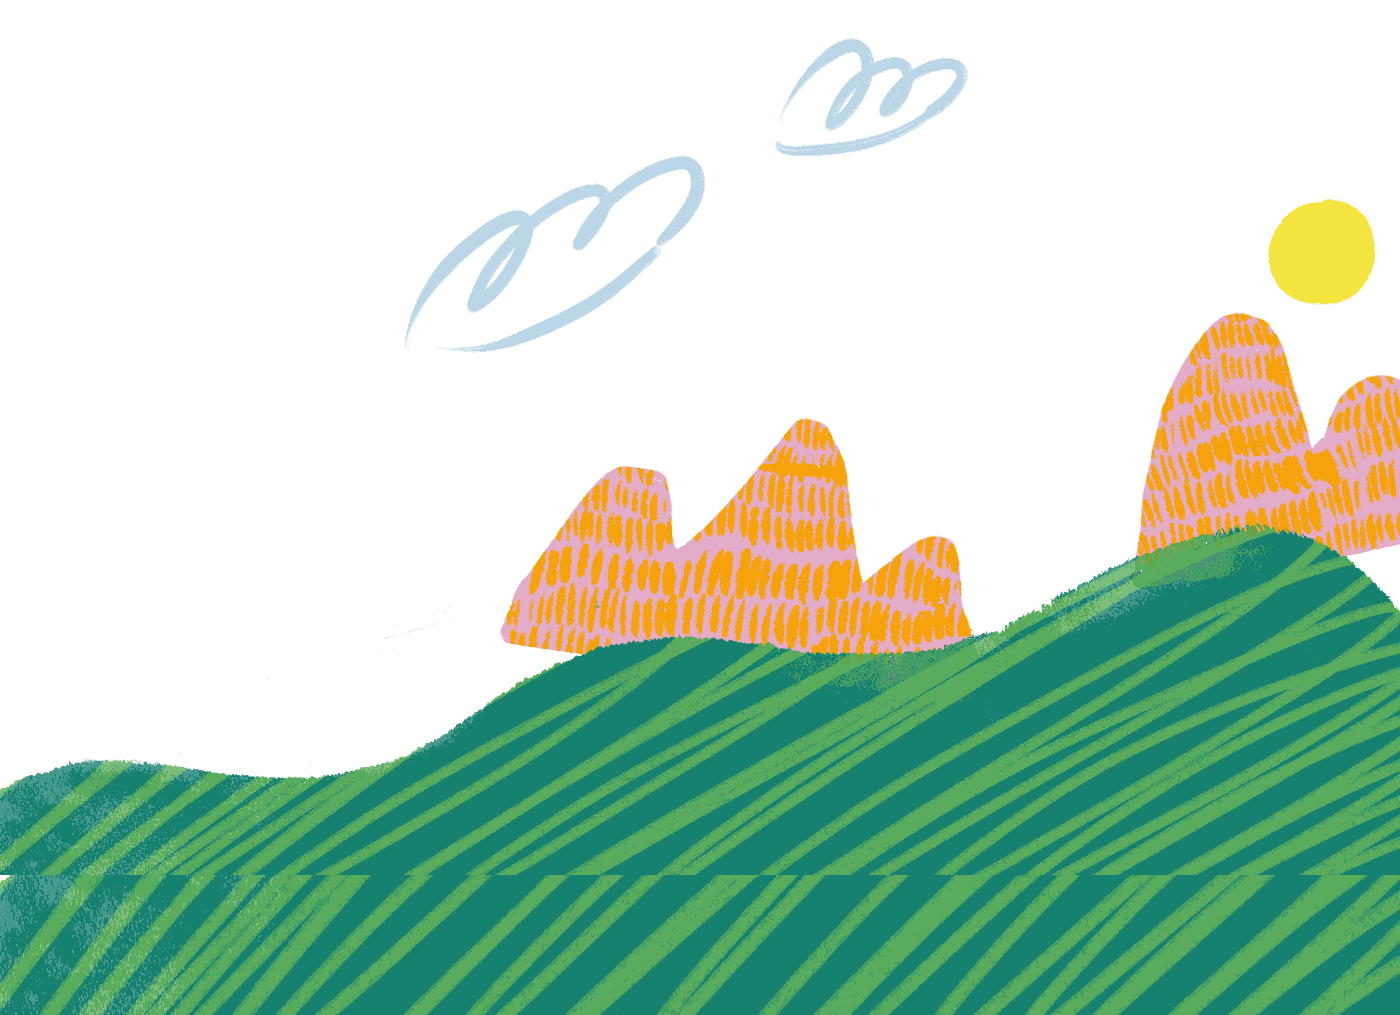
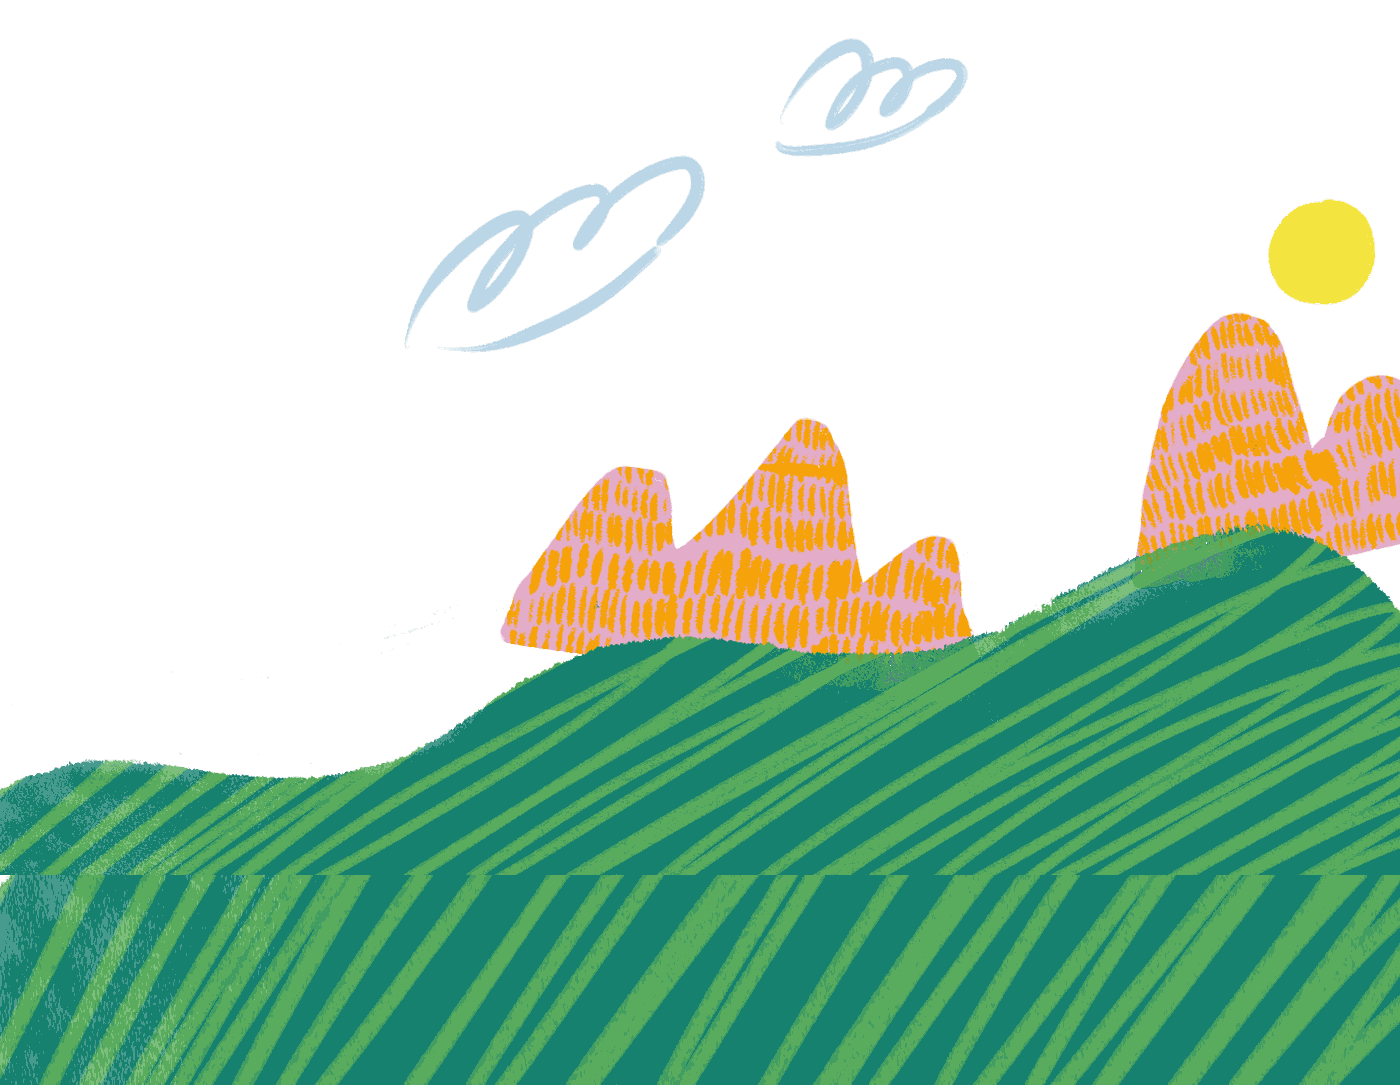
feat: the closing band stops being dark at all
.close is --wash now, the same ground every other section sits on, and the
CTA's dark overrides are deleted rather than inverted — they existed to
rescue that section's type and buttons off a black ground, and the page's
light defaults are already right. data-ground="dark" came off the wrapper.

The drawing is better for it: its sky is white and was being masked out of
a black ground; on the page grey it just blends.

--band and --band-2 removed, six declarations across the light and dark
layers, dead the moment the band was. Two comments calling the closing
band "the darkest surface on the page" corrected rather than left to lie.

One thing the flat ground broke: with the panel the same grey as the sky,
its top edge is invisible and was silently clipping the mountains, which
appeared to stand on nothing. The hill's highest horizon was at 505px
above the page bottom against a panel edge at 521 — the ground was just
behind the panel. The drawing's extension goes 140 -> 210, horizon to 577,
so the mountains stand on hill and it runs on behind the panel.

Changed region(s): [[0.0, 0.1833, 1.0, 1.0], [0.2764, 0.1222, 0.5221, 0.3665], [0.5529, 0.0305, 0.7064, 0.1527]]

diff --git a/site/styles.css b/site/styles.css
@@ -1650,12 +1650,6 @@ ul,ol{ margin:0; padding:0; list-style:none; }
                               5.1:1 on --wash, 4.7:1 on --wash-2 — AA on
                               every ground this page uses */
   --mat:        #171B1F;   /* the ground a product screen is matted on */
-  /* The closing band's ground. In light mode it is --ink and looked like
-     it could just BE --ink; in dark mode the page ground is already near
-     ink, so the band needs to be its own value or it disappears. One
-     token doing two jobs only looks fine until the second mode. */
-  --band:       var(--ink);
-  --band-2:     #14181D;   /* the footer panel resting on the band */
 
   /* ── CHANNELS ─────────────────────────────────────────────────────
      Every shadow, scrim and state layer on this page is one of these
@@ -1686,7 +1680,7 @@ ul,ol{ margin:0; padding:0; list-style:none; }
      and --ink-mute is already measured against it (4.7:1).
      Its dark sibling keeps the same relationship, inverted: one step OFF
      the ground it sits on rather than a fixed colour, so the header reads
-     as the same object over the closing band as it does over a white card. */
+     as the same object over every ground the page has. */
   --nav-fill:      var(--wash-2);
   --nav-fill-dark: var(--g-100);
   /* how far the blur under the header takes to disappear */
@@ -1940,8 +1934,9 @@ ul,ol{ margin:0; padding:0; list-style:none; }
 
    The RELATIONSHIPS are what carry over, not the values: the page ground
    stays the thing everything sits on, a card is one step off it, the header
-   is one step off the card, a tile is one step off the card the other way,
-   and the closing band stays the darkest surface on the page. In light mode
+   is one step off the card, and a tile is one step off the card the other
+   way. (The page had a dark closing band and no longer does — the CTA and
+   the footer sit on the page ground like everything else.) In light mode
    a card is LIGHTER than the ground and the header is DARKER than both; in
    dark mode both invert, because "separates from its surroundings" is the
    rule and "is lighter" was only ever how light mode expressed it.
@@ -1977,8 +1972,6 @@ ul,ol{ margin:0; padding:0; list-style:none; }
     --wash:       #0E1217;
     --wash-2:     #242C34;
     --tile:       #1D232A;
-    --band:       #05070A;
-  --band-2:     #0D1116;
     --ink:        #EEF1F3;
     --ink-soft:   #B4BCC3;
     --ink-mute:   #9AA3AB;
@@ -2002,8 +1995,6 @@ ul,ol{ margin:0; padding:0; list-style:none; }
   --wash:       #0E1217;
   --wash-2:     #242C34;
   --tile:       #1D232A;
-  --band:       #05070A;
-  --band-2:     #0D1116;
   --ink:        #EEF1F3;
   --ink-soft:   #B4BCC3;
   --ink-mute:   #9AA3AB;
@@ -4596,36 +4587,17 @@ h3{ font-family:var(--fd); }
 
 
 /* ─────────────── 16. the closing dark chapter ─────────────── */
+/* EVERY DARK OVERRIDE IS GONE. They existed to rescue this section's type
+   and buttons off a black ground; with the ground now the page's grey, the
+   page's own light defaults are already right and restating them here
+   would only be a second place to keep them in step. */
 .panel--cta{
-  /* transparent: .close owns the ground now, and painting it again here
-     would cover the artwork the CTA is supposed to sit on */
-  background:transparent; color:rgb(var(--paper-rgb) / .72);
+  background:transparent;
   border-top:0;
   padding-top:clamp(88px,8vw,132px);
 }
 
-.panel--cta .chip{ color:rgb(var(--paper-rgb) / .6); }
-
-.panel--cta .display{ color:var(--paper-ink); }
-
-.panel--cta .mark{ --hl:var(--accent); }
-
-.panel--cta .section-body{ color:rgb(var(--paper-rgb) / .72); }
-
 .cta__btns{ display:flex; flex-wrap:wrap; gap:12px; margin-top:clamp(30px,3.4vw,44px); }
-
-.panel--cta .btn--dark{ background:var(--accent-solid); border-color:var(--accent-solid); color:var(--paper-ink); }
-
-.panel--cta .btn--dark:hover{
-  transform:translateY(-1px);
-  box-shadow:0 14px 30px -12px rgb(var(--accent-solid-rgb) / .8);
-}
-
-.panel--cta .btn--ghost{ background:rgb(var(--paper-rgb) / .1); color:var(--paper-ink); }
-
-.panel--cta .btn--ghost:hover{ background:rgb(var(--paper-rgb) / .18); color:var(--paper-ink); }
-
-.panel--cta .btn--ghost img{ filter:brightness(0) invert(1); }
 
 
 /* ── the footer panel ────────────────────────────────────────────────
@@ -4759,7 +4731,7 @@ h3{ font-family:var(--fd); }
     /* an explicit height, not aspect-ratio: on an absolutely positioned box
        with `bottom` set and no `top`, the height resolved from content —
        zero — and the drawing rendered as a hairline. 1015/1400 = .725 */
-    width:max(100vw, 430px); height:calc(max(100vw, 430px) * .725);
+    width:max(100vw, 430px); height:calc(max(100vw, 430px) * .775);
     transform:translateX(-50%);
     background:url(assets/brand/scene-close.png) 50% 100% / 100% auto no-repeat;
     -webkit-mask-image:linear-gradient(180deg,
@@ -5219,23 +5191,13 @@ h3{ font-family:var(--fd); }
    sliced across a seam. */
 .close{
   position:relative; isolation:isolate;
-  /* THE PAGE GROUND COMES BACK. The dark is the CTA's sky, not the end of
-     the document — below the drawing the page returns to the grey every
-     other section sits on, so the footer is not a light card stranded in
-     a black frame.
-
-     ONE LONG RAMP, and that is the whole trick. The first version handed
-     over in 150px, hoping to hide the seam behind the hill; measuring the
-     drawing showed the hill's lowest horizon is only 222px above the page
-     bottom, so there is nowhere to hide it — the compressed handover read
-     as a grey haze smeared across the sky. Stretched over 820px it stops
-     being a seam and becomes the sky lightening toward the horizon, which
-     is what a sky does.
-
-     Measured from the BOTTOM, not in percent: .close's height changes
-     with the footer's, and a percentage stop would drift with it. */
-  background:linear-gradient(to top,
-      var(--wash) 0, var(--band) 820px, var(--band) 100%);
+  /* THE PAGE'S OWN GREY, all the way through. This band used to be the
+     one dark moment on the page and it is not any more: the CTA and the
+     footer both sit on --wash, the same ground every other section sits
+     on, so there is no band edge to reconcile and no handover to hide.
+     The drawing's white sky now blends into the ground instead of being
+     masked out of a black one, which is what it was drawn for. */
+  background:var(--wash);
   overflow:hidden;
 }
 
@@ -5263,12 +5225,16 @@ h3{ font-family:var(--fd); }
      scene-close.png is the same drawing with 140px of hill stretched on
      underneath so it can ride higher and still reach the page bottom.
 
-     140 is solved, not chosen. The peak tops sit 675px above the drawing's
-     own bottom; at 1440 wide everything scales by 1.0286, and the footer
-     panel's top is 521px up, so an extension E puts the peaks
-     (675 + E) x 1.0286 - 521 above it. E = 140 gives 317px — comfortably
-     below the buttons, which sit about 400px up. The first attempt used
-     420 and pushed the mountains straight through the CTA's copy. */
+     210 is solved, not chosen. Everything scales by 1.0286 at 1440 and the
+     footer panel's top edge is 521px above the page bottom, so an
+     extension E lands the hill's highest horizon at (351 + E) x 1.0286.
+     At E = 140 that was 505 — just UNDER the panel, so the mountains
+     appeared to stand on the panel's edge with no ground beneath them,
+     and since the panel is now the same grey as the sky its edge was
+     invisible and the drawing simply looked clipped. E = 210 puts the
+     horizon at 577, a strip of hill above the edge, so the mountains
+     stand on ground and the hill runs on behind the panel. The peaks
+     land at 911, still clear of the buttons. */
   width:max(100vw, 900px); max-width:none; height:auto;
   transform:translateX(-50%);
   /* a long, gentle dissolve so the top edge melts into the dark instead

diff --git a/src/css/system.css b/src/css/system.css
@@ -33,12 +33,6 @@
                               5.1:1 on --wash, 4.7:1 on --wash-2 — AA on
                               every ground this page uses */
   --mat:        #171B1F;   /* the ground a product screen is matted on */
-  /* The closing band's ground. In light mode it is --ink and looked like
-     it could just BE --ink; in dark mode the page ground is already near
-     ink, so the band needs to be its own value or it disappears. One
-     token doing two jobs only looks fine until the second mode. */
-  --band:       var(--ink);
-  --band-2:     #14181D;   /* the footer panel resting on the band */
 
   /* ── CHANNELS ─────────────────────────────────────────────────────
      Every shadow, scrim and state layer on this page is one of these
@@ -69,7 +63,7 @@
      and --ink-mute is already measured against it (4.7:1).
      Its dark sibling keeps the same relationship, inverted: one step OFF
      the ground it sits on rather than a fixed colour, so the header reads
-     as the same object over the closing band as it does over a white card. */
+     as the same object over every ground the page has. */
   --nav-fill:      var(--wash-2);
   --nav-fill-dark: var(--g-100);
   /* how far the blur under the header takes to disappear */
@@ -322,8 +316,9 @@
 
    The RELATIONSHIPS are what carry over, not the values: the page ground
    stays the thing everything sits on, a card is one step off it, the header
-   is one step off the card, a tile is one step off the card the other way,
-   and the closing band stays the darkest surface on the page. In light mode
+   is one step off the card, and a tile is one step off the card the other
+   way. (The page had a dark closing band and no longer does — the CTA and
+   the footer sit on the page ground like everything else.) In light mode
    a card is LIGHTER than the ground and the header is DARKER than both; in
    dark mode both invert, because "separates from its surroundings" is the
    rule and "is lighter" was only ever how light mode expressed it.
@@ -356,8 +351,6 @@
     --wash:       #0E1217;
     --wash-2:     #242C34;
     --tile:       #1D232A;
-    --band:       #05070A;
-  --band-2:     #0D1116;
     --ink:        #EEF1F3;
     --ink-soft:   #B4BCC3;
     --ink-mute:   #9AA3AB;
@@ -379,8 +372,6 @@
   --wash:       #0E1217;
   --wash-2:     #242C34;
   --tile:       #1D232A;
-  --band:       #05070A;
-  --band-2:     #0D1116;
   --ink:        #EEF1F3;
   --ink-soft:   #B4BCC3;
   --ink-mute:   #9AA3AB;
@@ -2704,26 +2695,16 @@ h3{ font-family:var(--fd); }
 }
 
 /* ─────────────── 16. the closing dark chapter ─────────────── */
+/* EVERY DARK OVERRIDE IS GONE. They existed to rescue this section's type
+   and buttons off a black ground; with the ground now the page's grey, the
+   page's own light defaults are already right and restating them here
+   would only be a second place to keep them in step. */
 .panel--cta{
-  /* transparent: .close owns the ground now, and painting it again here
-     would cover the artwork the CTA is supposed to sit on */
-  background:transparent; color:rgb(var(--paper-rgb) / .72);
+  background:transparent;
   border-top:0;
   padding-top:clamp(88px,8vw,132px);
 }
-.panel--cta .chip{ color:rgb(var(--paper-rgb) / .6); }
-.panel--cta .display{ color:var(--paper-ink); }
-.panel--cta .mark{ --hl:var(--accent); }
-.panel--cta .section-body{ color:rgb(var(--paper-rgb) / .72); }
 .cta__btns{ display:flex; flex-wrap:wrap; gap:12px; margin-top:clamp(30px,3.4vw,44px); }
-.panel--cta .btn--dark{ background:var(--accent-solid); border-color:var(--accent-solid); color:var(--paper-ink); }
-.panel--cta .btn--dark:hover{
-  transform:translateY(-1px);
-  box-shadow:0 14px 30px -12px rgb(var(--accent-solid-rgb) / .8);
-}
-.panel--cta .btn--ghost{ background:rgb(var(--paper-rgb) / .1); color:var(--paper-ink); }
-.panel--cta .btn--ghost:hover{ background:rgb(var(--paper-rgb) / .18); color:var(--paper-ink); }
-.panel--cta .btn--ghost img{ filter:brightness(0) invert(1); }
 
 /* ── the footer panel ────────────────────────────────────────────────
    A panel resting on the close's artwork, not a band under it: inset by
@@ -2835,7 +2816,7 @@ h3{ font-family:var(--fd); }
     /* an explicit height, not aspect-ratio: on an absolutely positioned box
        with `bottom` set and no `top`, the height resolved from content —
        zero — and the drawing rendered as a hairline. 1015/1400 = .725 */
-    width:max(100vw, 430px); height:calc(max(100vw, 430px) * .725);
+    width:max(100vw, 430px); height:calc(max(100vw, 430px) * .775);
     transform:translateX(-50%);
     background:url(assets/brand/scene-close.png) 50% 100% / 100% auto no-repeat;
     -webkit-mask-image:linear-gradient(180deg,
@@ -3197,23 +3178,13 @@ h3{ font-family:var(--fd); }
    sliced across a seam. */
 .close{
   position:relative; isolation:isolate;
-  /* THE PAGE GROUND COMES BACK. The dark is the CTA's sky, not the end of
-     the document — below the drawing the page returns to the grey every
-     other section sits on, so the footer is not a light card stranded in
-     a black frame.
-
-     ONE LONG RAMP, and that is the whole trick. The first version handed
-     over in 150px, hoping to hide the seam behind the hill; measuring the
-     drawing showed the hill's lowest horizon is only 222px above the page
-     bottom, so there is nowhere to hide it — the compressed handover read
-     as a grey haze smeared across the sky. Stretched over 820px it stops
-     being a seam and becomes the sky lightening toward the horizon, which
-     is what a sky does.
-
-     Measured from the BOTTOM, not in percent: .close's height changes
-     with the footer's, and a percentage stop would drift with it. */
-  background:linear-gradient(to top,
-      var(--wash) 0, var(--band) 820px, var(--band) 100%);
+  /* THE PAGE'S OWN GREY, all the way through. This band used to be the
+     one dark moment on the page and it is not any more: the CTA and the
+     footer both sit on --wash, the same ground every other section sits
+     on, so there is no band edge to reconcile and no handover to hide.
+     The drawing's white sky now blends into the ground instead of being
+     masked out of a black one, which is what it was drawn for. */
+  background:var(--wash);
   overflow:hidden;
 }
 .close__art{
@@ -3240,12 +3211,16 @@ h3{ font-family:var(--fd); }
      scene-close.png is the same drawing with 140px of hill stretched on
      underneath so it can ride higher and still reach the page bottom.
 
-     140 is solved, not chosen. The peak tops sit 675px above the drawing's
-     own bottom; at 1440 wide everything scales by 1.0286, and the footer
-     panel's top is 521px up, so an extension E puts the peaks
-     (675 + E) x 1.0286 - 521 above it. E = 140 gives 317px — comfortably
-     below the buttons, which sit about 400px up. The first attempt used
-     420 and pushed the mountains straight through the CTA's copy. */
+     210 is solved, not chosen. Everything scales by 1.0286 at 1440 and the
+     footer panel's top edge is 521px above the page bottom, so an
+     extension E lands the hill's highest horizon at (351 + E) x 1.0286.
+     At E = 140 that was 505 — just UNDER the panel, so the mountains
+     appeared to stand on the panel's edge with no ground beneath them,
+     and since the panel is now the same grey as the sky its edge was
+     invisible and the drawing simply looked clipped. E = 210 puts the
+     horizon at 577, a strip of hill above the edge, so the mountains
+     stand on ground and the hill runs on behind the panel. The peaks
+     land at 911, still clear of the buttons. */
   width:max(100vw, 900px); max-width:none; height:auto;
   transform:translateX(-50%);
   /* a long, gentle dissolve so the top edge melts into the dark instead

diff --git a/site/index.html b/site/index.html
@@ -9,7 +9,7 @@
 <link rel="preconnect" href="https://fonts.googleapis.com">
 <link rel="preconnect" href="https://fonts.gstatic.com" crossorigin>
 <link href="https://fonts.googleapis.com/css2?family=Archivo:wght@400;500;600;700&family=Instrument+Sans:wght@400;500;600&family=IBM+Plex+Mono:wght@400;500&family=Cormorant+Garamond:wght@400;500&family=Noto+Sans:wght@400;500;600&family=Inter:wght@300;400&display=swap" rel="stylesheet">
-<link rel="stylesheet" href="styles.css?r=725b903a">
+<link rel="stylesheet" href="styles.css?r=87816ac2">
 </head>
 <body>
 
@@ -1092,8 +1092,8 @@
 
 <!-- ═══════════════ THE CLOSE: cta + footer share one ground ═══════════════ -->
 
-<div class="close" data-ground="dark">
-  <img class="close__art" src="assets/brand/scene-close.png?v=8258cc15" alt="" aria-hidden="true">
+<div class="close">
+  <img class="close__art" src="assets/brand/scene-close.png?v=8b75f5b2" alt="" aria-hidden="true">
 
   <section class="panel panel--cta" id="cta" aria-labelledby="cta-title">
     <h2 class="display display--center" id="cta-title" data-reveal="mask">

diff --git a/docs/changelog.md b/docs/changelog.md
@@ -6,6 +6,41 @@ wrong**, because the failure modes are the useful part.
 
 ---
 
+## 2026-08-25 · the closing band stops being dark at all
+
+Tong, pointing at the CTA: *"don't use black here either — use the
+background grey."*
+
+So the page no longer has a dark band. `.close` is `--wash`, the same
+ground every other section sits on, and the CTA's whole set of dark
+overrides is **deleted** rather than inverted: they existed to rescue that
+section's type and buttons off a black ground, and the page's own light
+defaults are already right. `data-ground="dark"` came off the wrapper —
+there is now nothing on the page for the header's dark variant to react
+to, though the mechanism stays.
+
+The drawing is better for it. Its sky is white, and it was being masked
+out of a black ground; on the page grey it simply blends, which is what
+it was drawn for.
+
+`--band` and `--band-2` are gone — six declarations across the light and
+dark layers, dead the moment the band was. Two comments that described
+the closing band as "the darkest surface on the page" were corrected
+rather than left to mislead.
+
+### One thing the flat ground broke
+
+With the panel now the same grey as the sky behind it, its top edge is
+invisible — and it was silently clipping the mountains, which appeared to
+stand on nothing. Measured: the hill's highest horizon sat at 505px above
+the page bottom and the panel's top edge is at 521, so the ground the
+mountains stand on was *just* behind the panel. The drawing's extension
+went from 140px to 210, putting the horizon at 577 — a strip of hill above
+the edge, so the mountains stand on ground and the hill runs on behind the
+panel and out into the gutters. The peaks land at 910, still clear of the
+buttons.
+
+
 ## 2026-08-25 · the footer stops being black
 
 Tong: *"the footer doesn't have to be black — just use the whole landing's
